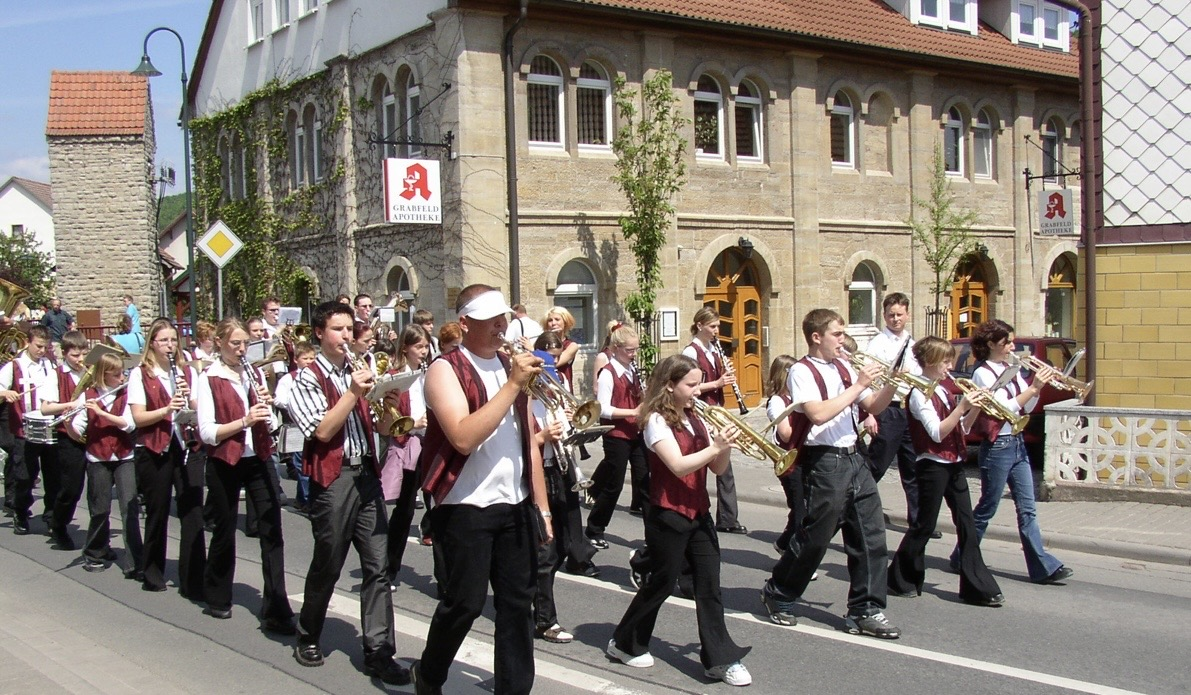
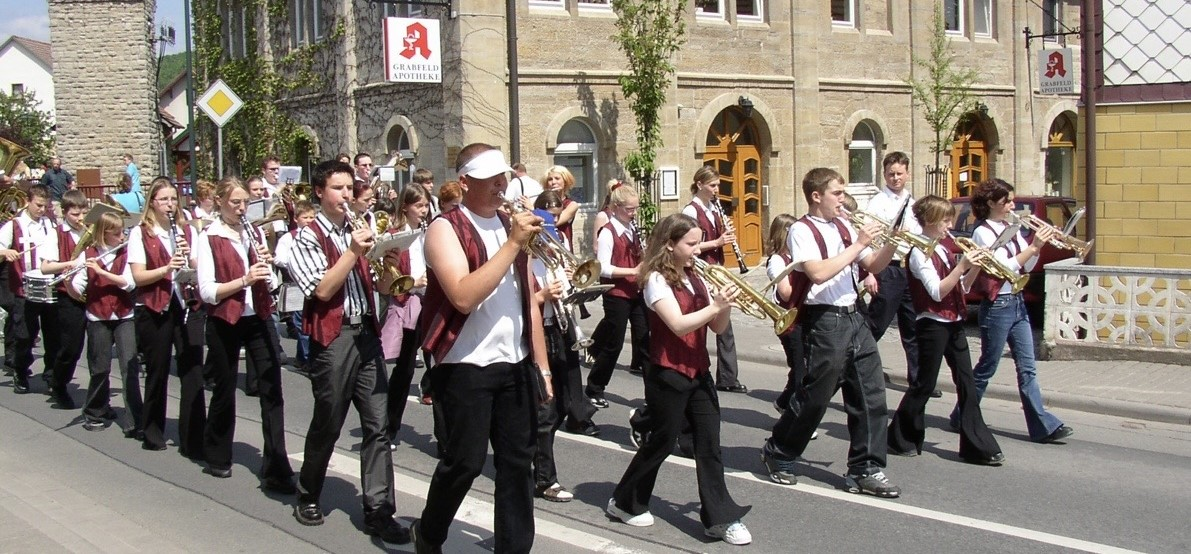
update noten

diff --git a/style.css b/style.css
@@ -159,6 +159,23 @@ details p {
     font-style: italic;
 }
 
+.divider {
+    width: 100vw;
+    position: relative;
+    left: 50%;
+    transform: translateX(-50%);
+    z-index: 3;
+    margin: -40px 0;
+    pointer-events: none;
+}
+
+.music-notes {
+    width: 100%;
+    height: auto;
+    display: block;
+    opacity: 0.6;
+}
+
 /* ============================
    ANGEBOT BOX
    ============================ */
@@ -191,10 +208,15 @@ details p {
    ============================ */
 .auftritt-gallery {
     display: grid;
-    grid-template-columns: 1fr 1fr;
-    grid-template-rows: auto auto;
+    grid-template-columns: 2fr 1fr;
     gap: 14px;
-    margin-top: 24px;
+    padding-top: 60px;
+}
+
+.auftritt-gallery img {
+    width: 100%;
+    height: 100%;
+    object-fit: cover;
 }
 
 .auftritt-gallery figure {
@@ -492,6 +514,10 @@ details p {
         font-size: 1.3rem;
     }
 
+     #angebot {
+        margin-top: -20px;
+    }
+    
     /* Auftritt: 1 Spalte */
     .auftritt-gallery {
         grid-template-columns: 1fr;
@@ -569,6 +595,7 @@ details p {
     }
 
     .footer {
+        margin-top: -20px;
         padding: 40px 5vw 24px;
     }
 
@@ -610,4 +637,21 @@ details p {
         border-radius: 50%;    /* Macht die Ecken rund */
         object-fit: cover;
     }
+}
+
+.cta-section {
+    position: relative;
+    z-index: 2;
+}
+
+#angebot {
+    margin-top: -100px;
+    position: relative;
+    z-index: 2;
+}
+
+.footer {
+    position: relative;
+    z-index: 2;
+    margin-top: -100px;
 }

diff --git a/index.html b/index.html
@@ -80,6 +80,10 @@
             </div>
         </section>
 
+        <div class="divider">
+            <img src="bilder/noten1.png" alt="" class="music-notes">
+        </div>
+
         <section class="section" id="angebot">
             <div class="offer-box">
                 <h3>Angebot</h3>
@@ -150,6 +154,10 @@
         </section>
 
     </main>
+
+     <div class="divider">
+            <img src="bilder/noten2.png" alt="" class="music-notes">
+    </div>
 
     <footer class="footer">
         <div class="footer-contact">
